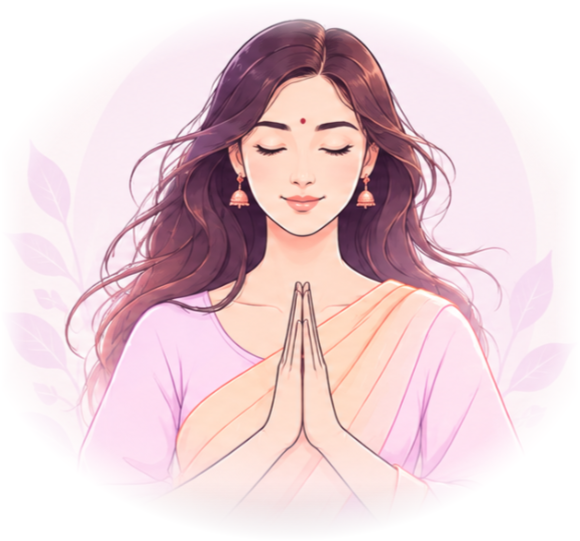
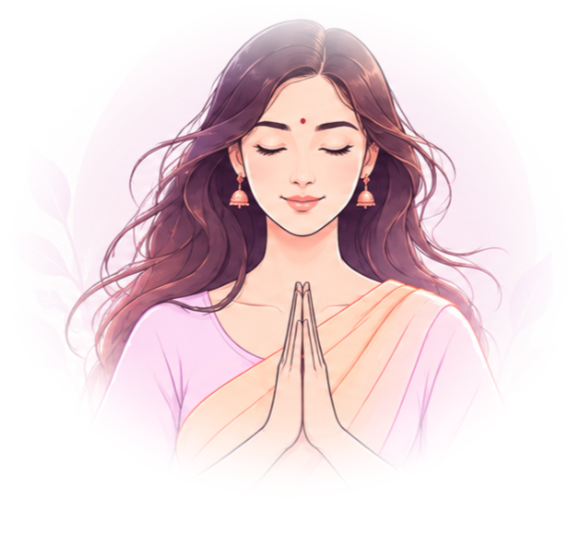
Place arrow below Explore Features, increase woman size, and blend naturally

diff --git a/src/styles.css b/src/styles.css
@@ -215,11 +215,11 @@ body { margin: 0; }
 .hero-split-container {
   width: min(1380px, 94vw);
   height: 100%;
-  max-height: calc(100vh - 110px);
+  max-height: calc(100vh - 100px);
   display: grid;
-  grid-template-columns: 1.05fr 0.95fr;
+  grid-template-columns: 1.1fr 0.9fr;
   align-items: center;
-  gap: clamp(20px, 3.5vw, 48px);
+  gap: clamp(16px, 3vw, 44px);
   position: relative;
   z-index: 10;
 }
@@ -249,17 +249,17 @@ body { margin: 0; }
   display: flex;
   align-items: center;
   justify-content: center;
-  max-width: 490px;
+  max-width: 470px;
   width: 100%;
   height: 100%;
-  max-height: min(560px, 70vh);
+  max-height: min(550px, 68vh);
   animation: showcase-arrive 1.3s 0.2s cubic-bezier(.22,.7,.24,1) forwards;
   opacity: 0;
 }
 
 .app-showcase-img {
   max-width: 100%;
-  max-height: min(550px, 68vh);
+  max-height: min(540px, 66vh);
   width: auto;
   height: auto;
   object-fit: contain;
@@ -287,8 +287,8 @@ body { margin: 0; }
 
 .woman-scene {
   position: relative;
-  width: min(560px, 100%);
-  height: clamp(330px, 45vh, 420px);
+  width: min(620px, 100%);
+  height: clamp(360px, 49vh, 460px);
   display: flex;
   align-items: center;
   justify-content: center;
@@ -298,12 +298,12 @@ body { margin: 0; }
   position: absolute;
   left: 50%;
   top: 50%;
-  width: 95%;
-  height: 95%;
+  width: 88%;
+  height: 88%;
   transform: translate(-50%, -50%);
-  background: radial-gradient(ellipse at center, color-mix(in oklab, var(--rose) 24%, transparent) 0%, color-mix(in oklab, var(--lavender) 15%, transparent) 50%, transparent 74%);
+  background: radial-gradient(ellipse at center, color-mix(in oklab, var(--rose) 18%, transparent) 0%, color-mix(in oklab, var(--lavender) 12%, transparent) 46%, transparent 72%);
   border-radius: 50%;
-  filter: blur(32px);
+  filter: blur(36px);
   pointer-events: none;
   z-index: 5;
   animation: aura-pulse 6s ease-in-out infinite alternate;
@@ -313,7 +313,7 @@ body { margin: 0; }
   position: relative;
   z-index: 20;
   width: 100%;
-  max-width: 530px;
+  max-width: 590px;
   height: 100%;
   margin: 0 auto;
 }
@@ -326,13 +326,15 @@ body { margin: 0; }
   overflow: visible;
   opacity: 0;
   animation: woman-arrive 1.8s .2s cubic-bezier(.22,.7,.24,1) forwards;
+  -webkit-mask-image: radial-gradient(ellipse 82% 80% at 50% 48%, black 48%, transparent 96%);
+  mask-image: radial-gradient(ellipse 82% 80% at 50% 48%, black 48%, transparent 96%);
 }
 
 .woman-frame::after {
   content: "";
   position: absolute;
   inset: auto 0 0;
-  height: 14%;
+  height: 16%;
   background: linear-gradient(to bottom, transparent, var(--cream));
   pointer-events: none;
   z-index: 25;
@@ -346,7 +348,8 @@ body { margin: 0; }
   height: 100%;
   object-fit: contain;
   transform: translate(-50%, -50%);
-  filter: drop-shadow(0 14px 30px color-mix(in oklab, var(--lavender) 18%, transparent));
+  mix-blend-mode: multiply;
+  filter: drop-shadow(0 10px 24px color-mix(in oklab, var(--lavender) 12%, transparent));
 }
 
 /* ═══════════════════════════════════════════════════
@@ -751,9 +754,10 @@ body { margin: 0; }
 
 .explore-link {
   display: inline-flex;
+  flex-direction: column;
   align-items: center;
-  gap: 8px;
-  margin-top: 16px;
+  gap: 6px;
+  margin-top: 12px;
   color: var(--plum-deep);
   font-size: 13.5px;
   font-weight: 500;

diff --git a/src/routes/index.tsx b/src/routes/index.tsx
@@ -146,8 +146,8 @@ function RhythmaLanding() {
               <h1 id="rhythma-title">Rhythma</h1>
               <p className="tagline">Her Rhythm. Her Health. Her Power.</p>
               <a className="explore-link" href="#explore" aria-label="Explore Rhythma">
-                <span className="arrow-circle"><ArrowDown /></span>
                 <span>Explore Features</span>
+                <span className="arrow-circle"><ArrowDown /></span>
               </a>
             </section>
           </div>
